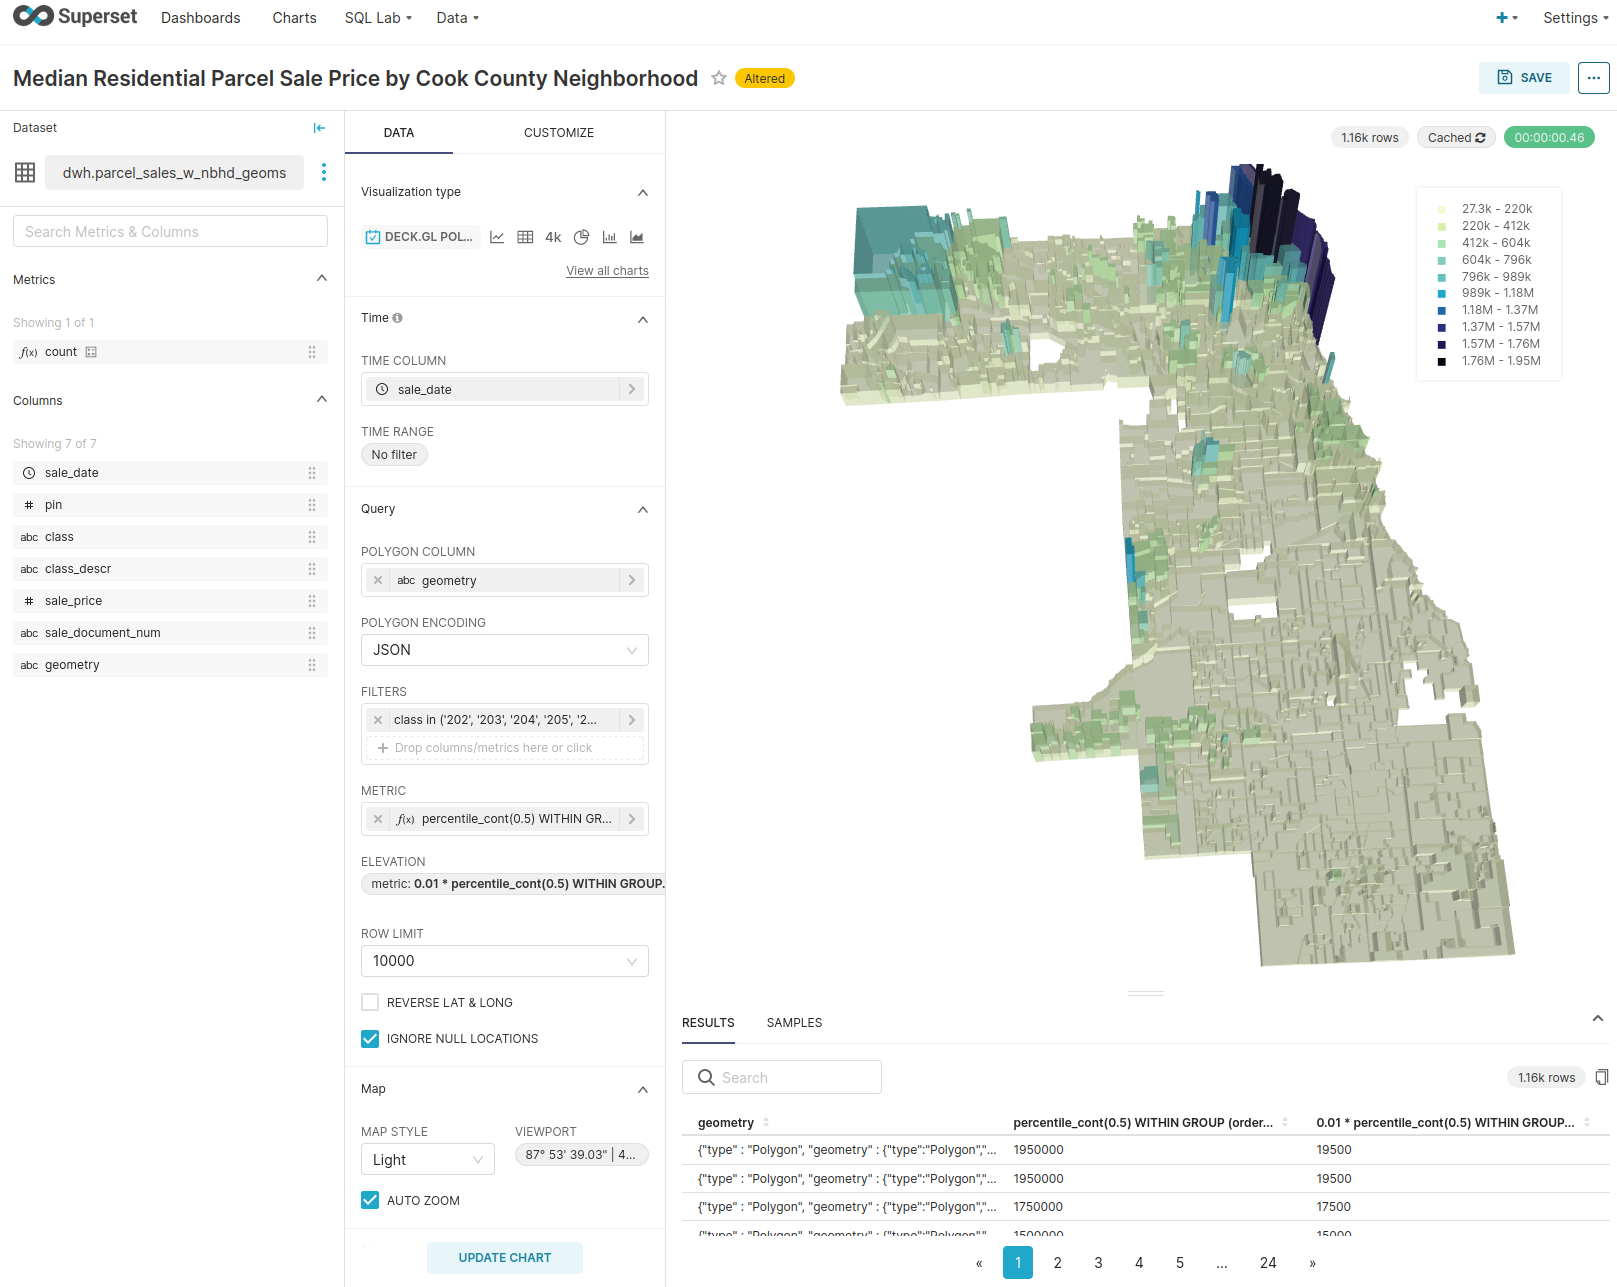
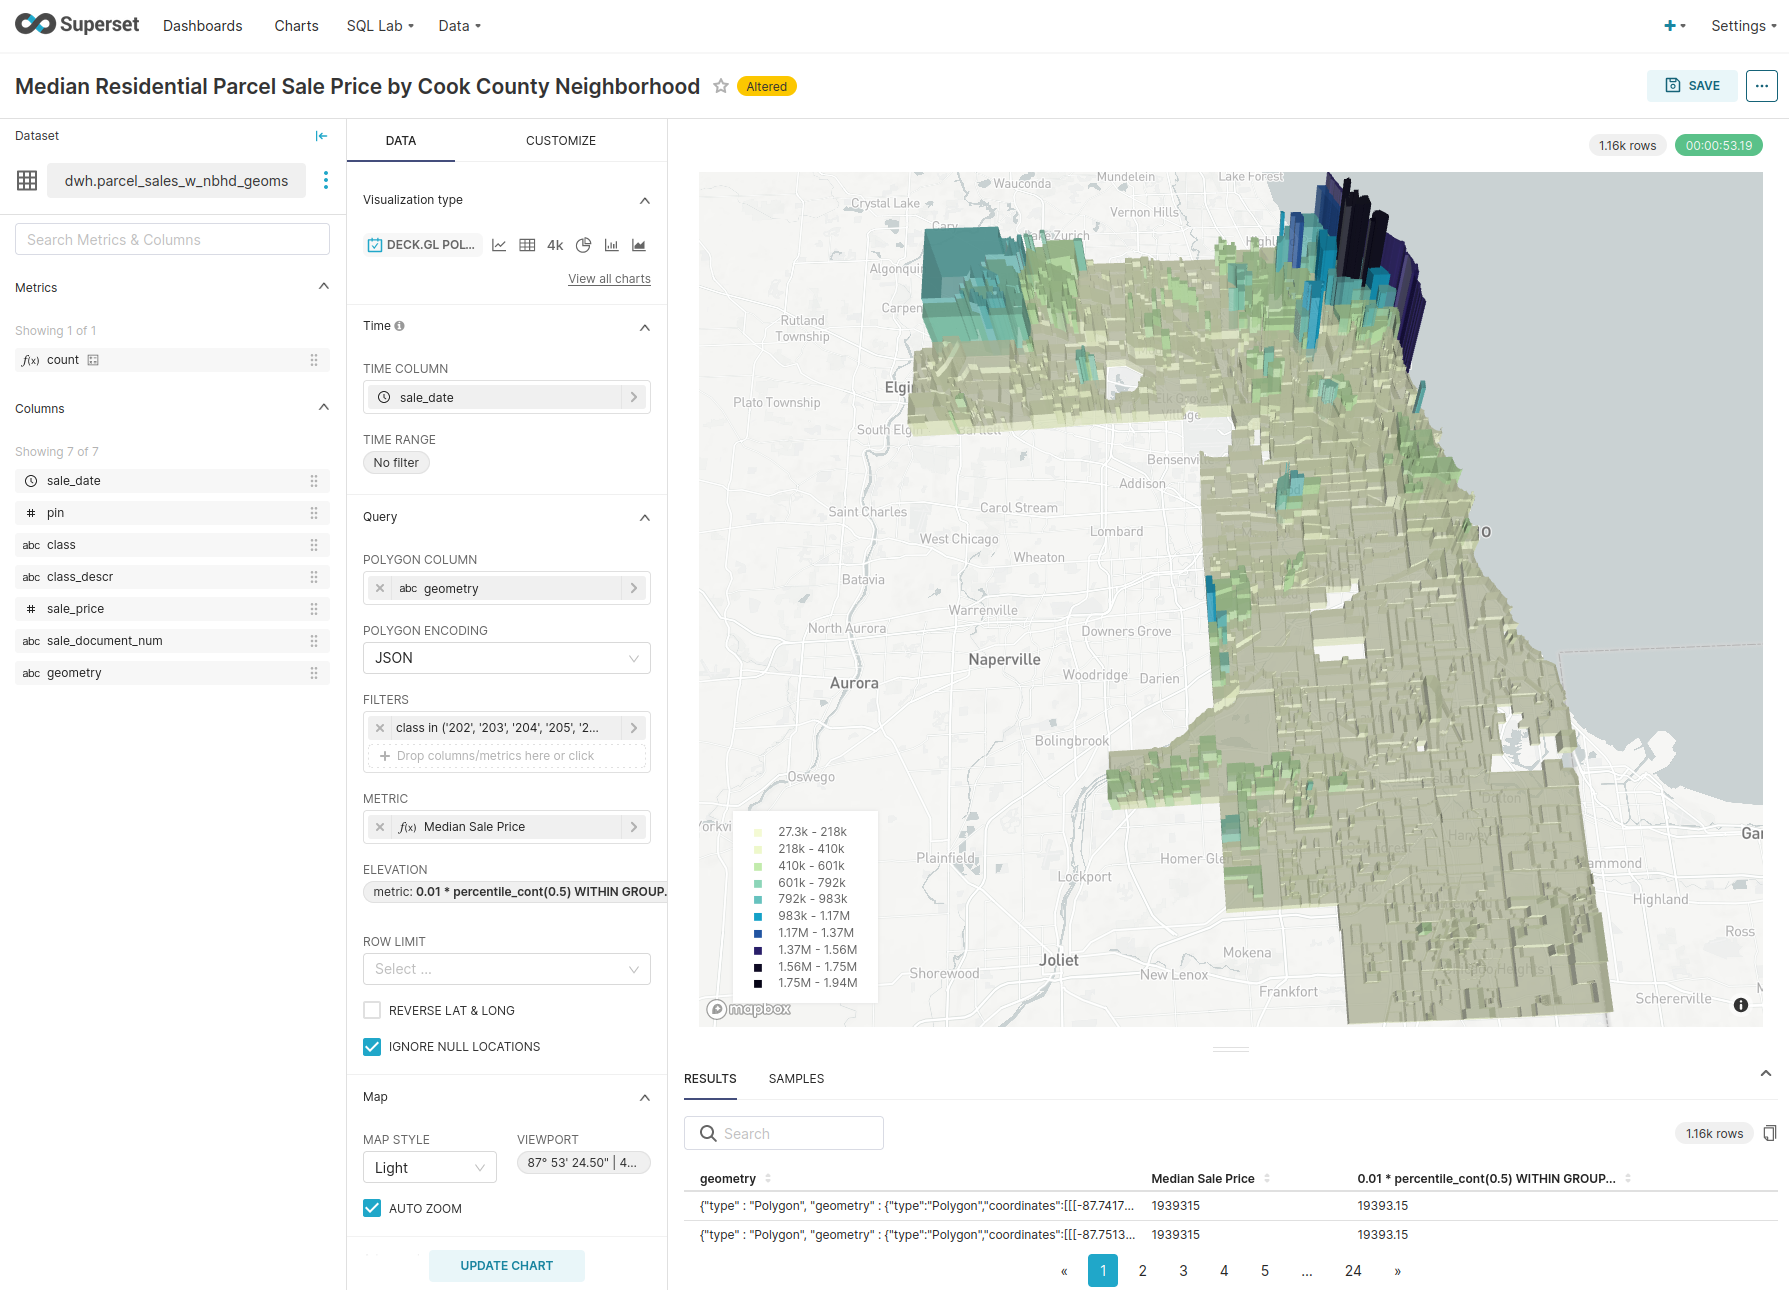
Adds instructions for adding MAPBOX_API_KEY and adds updated images.

diff --git a/docs/setup/getting_started.md b/docs/setup/getting_started.md
@@ -1,11 +1,11 @@
-## System Setup
+# System Setup
 
 Preprequisites:
 To use this system, Docker is the only absolutely necessary prerequisite.
 
 Having `GNU make` and core python on your host system will enable you to use included `makefile` recipes and scripts to streamline setup and common operations, but you could get by without them (although you'll have to figure more out).
 
-### Setting up credentials
+## Setting up credentials
 After cloning this project, `cd` into your local repo, run this `make` command and enter appropriate responses to the prompts. You may want to have a password generator open.
 
 ```bash
@@ -14,7 +14,22 @@ make make_credentials
 
 The program will validate the values you enter, assemble them into some compound values (mostly connection strings), and output these configs into the dot-env files (`.env`, `.env.dwh`, and `.env.superset`) in the top-level repo directory. Review these files and make any changes before you initialize the system (i.e., when these username and password pairs are used to create roles in databases or Airflow starts using the Fernet key to encrypt passwords in connection strings).
 
-### Initializing the system
+### [Optional] Mapbox API Token for Geospatial Superset Maps
+
+To include a basemap underneath geospatial visualizations in Superset, you'll need to:
+
+1. [Create a free Mapbox account](https://account.mapbox.com/auth/signup),
+2. Create a new API access token on your [Mapbox account page](https://account.mapbox.com/), and
+3. Open your `.env.superset` dot-env file and paste that API access token in for the `MAPBOX_API_KEY` environment variable so that it looks like the example below.
+
+    `MAPBOX_API_KEY=pk.<the rest of the API token you created>`
+
+You can still make geospatial Superset charts without an API key, but your geospatial charts won't have a basemap (like the left example).
+
+![Without Mapbox API key](/assets/imgs/superset/deckgl_polygon_chart_demo_no_basemap.png){ style="width:46.25%" }
+![With Mapbox API key](/assets/imgs/superset/deckgl_polygon_chart_demo.png){ style="width:51%" }
+
+## Initializing the system
 
 On the first startup of the system (and after setting your credentials), run the commands below to
 1. build the platform's docker images, and initialize the airflow metadata database,

diff --git a/docs/setup/superset_setup.md b/docs/setup/superset_setup.md
@@ -21,9 +21,6 @@ Select the PostgreSQL option and then enter the following credentials:
 ![Select the PostgreSQL database driver](/assets/imgs/superset/connecting_a_db_step_1_of_3.png){ style="width:49%" }
 ![Enter your credentials for the data warehouse database](/assets/imgs/superset/connecting_a_db_step_2_of_3.png){ style="width:49%" }
 
-<!-- ![Select the PostgreSQL database driver](/assets/imgs/superset/connecting_a_db_step_3_of_3.png) -->
-<!-- { style="width:49%" } -->
-
 If credentials and configs were entered correctly (and the database container is running), superset will successfully connect to the database and you can save the connection by clicking **FINISH**.
 
 <figure markdown>
